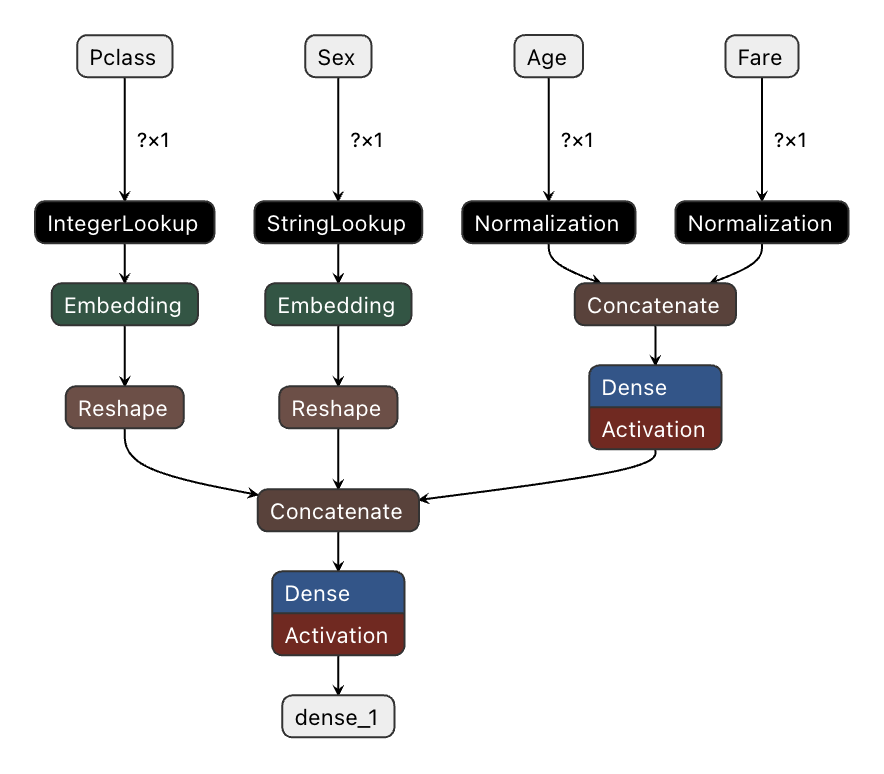
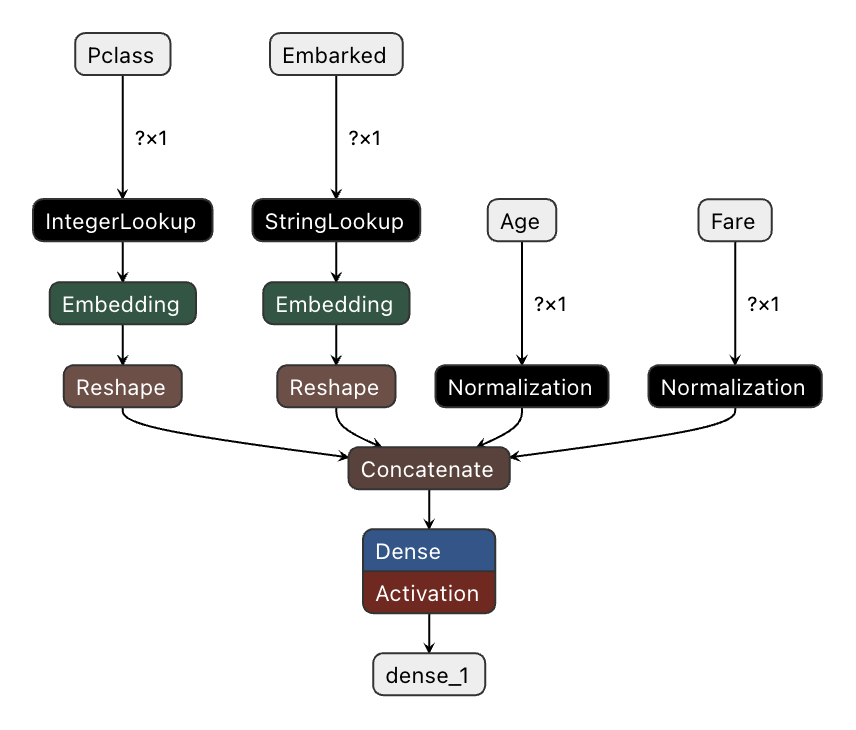
Update example in Readme (#26)
* Update example in Readme

* Restructure examples and link from Readme

* Update gitignore

Changed region(s): [[0.0304, 0.0301, 0.972, 0.9644]]

diff --git a/README.md b/README.md
@@ -25,15 +25,14 @@ Here is a basic example of how to use TF Tabular:
 
 ```python
 from tf_tabular.builder import InputBuilder
-from tf_tabular.numeric_processor import NumericProcessor
 
 # Define columns to use and specify additional parameters:
-categoricals = ['Pclass', 'Sex']
+categoricals = ['Pclass', 'Embarked']
 numericals = ['Age', 'Fare']
 # ....
 
 # Build model:
-input_builder = InputBuilder(numeric_processor=NumericProcessor(num_projection=8, cross_features=False))
+input_builder = InputBuilder()
 input_builder.add_inputs_list(categoricals=categoricals,
                               numericals=numericals,
                               normalization_params=norm_params,
@@ -49,7 +48,11 @@ Which will produce a model like this:
 ![Netron Model View](/media/images/example_netron.png)
 
 
-Look at the examples folder for more complete examples.
+## Examples
+The **examples** folder includes more complete examples including:
+* [Titanic](examples/titanic/titanic.ipynb): A simple binary classification example using the Titanic dataset.
+* [MovieLens](examples/movielens/movielens.ipynb): A two tower retrieval model using the MovieLens dataset.
+* [MovieLens Sequential](examples/sequential/movielens_sequential.ipynb): Another two tower retrieval model build on the MovieLens dataset preprocessed so that the input of the model is the list of movies the user has interacted with.
 
 ## Contributing
 Contributions to TF Tabular are welcome. If you have a feature you'd like to add, or a bug you'd like to fix, please open a pull request.
